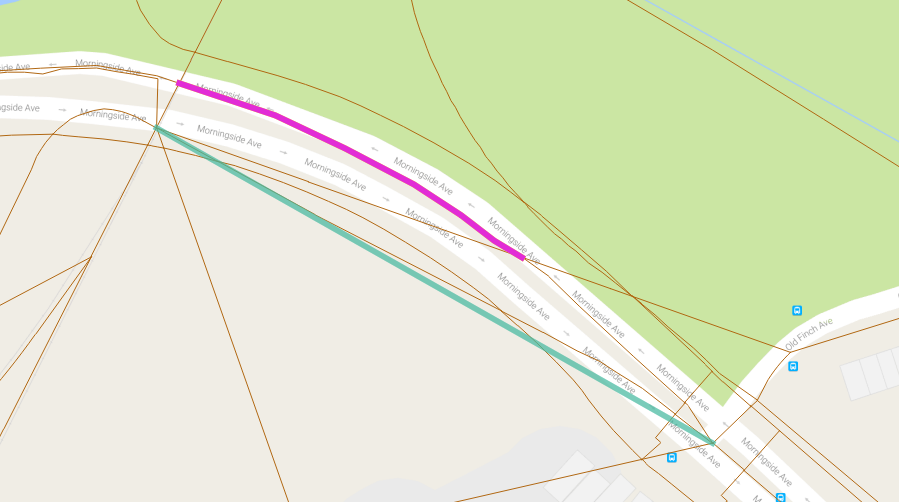
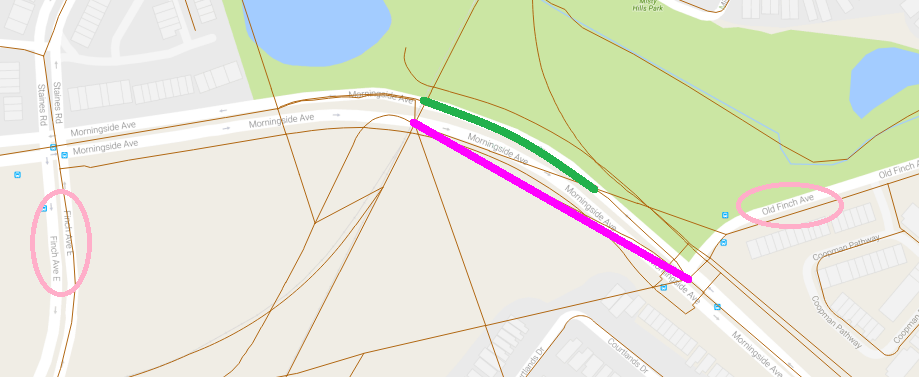
Update documentation on QC

diff --git a/Matching arterycodes to TCL/Issues log.md b/Matching arterycodes to TCL/Issues log.md
@@ -1,0 +1,104 @@
+Special cases and observations during the quality control on arterycode matching are noted below.  
+**Color scheme:**    
+Magenta: arterycode geometry  
+Red: corrected geometry  
+Green: centreline geometry matched by algorithm  
+
+# Special cases and resolution:
+Because the sources for volume counts and Toronto centreline files are different, the segments do not agree completely. Cases where discrepancies might occur and the solution the algorithm takes are presented below.
+
+## 1. Centreline Segments being broken up by planning boundaries, trails, etc.
+arterycode|sideofint|direction|description|comment|
+-----|-|----------|-------------------------------------------|----------------------------
+27562/21091|S|Southbound/Northbound|SCARSDALE RD N/B(S/B) S OF YORK MILLS RD|segment broken by Leaside Rail Spur Trail and bottom segment do not pass directional alignment check
+3564/1601|E/W|Westbound/Eastbound|STEELES AVE W/B E OF FOUNDERS RD/STEELES AVE E/B W OF KEELE ST|both matched to the longer segment 
+!['27562+21091'](img/27562+21091.png)
+!['3564+1601'](img/3564+1601.png)
+
+Resolution: Depending on the case that the arterycode is matched on. The arterycode might be mapped to the centreline segment that shares a node with the arterycode geometry and has a longer length, or the centreline segment that is closer to the segment by Hausdorff Distance. While checking, the rule of thumb used is that if the centreline segments that make up the arterycode geometry is broken up by planning boundary, trails, geostatistical lines, i.e. no vehicular flow will be diverted/merged in and volume stays constant across, the match will be considered correct.
+
+# Error Sources:
+There are a few representative situations that the algorithm do not handle well. Instances caught by quality control are corrected and labelled case 10. This is the base for further improvements to the matching algorithm.
+
+## 1. Crescents (segments share the same nodes in general)
+arterycode|sideofint|direction|description|comment|
+-----|-|----------|-------------------------------------------|----------------------------
+20665|E|Northbound|VANLEY CRES N/B E OF CHESSWOOD DR|Chesswood Dr and Vanley Cres have the same fnode and tnode
+28799/28800|E|Westbound/Eastbound|LAWRENCE NE SERVICE RD W/B E OF LAWRENCE AV|The north service road have the same fnode and tnode as the main road
+
+!['20665'](img/20665.png)
+!['28799+28800'](img/28799+28800.png)
+
+## 2. Geometry does not exist in tcl
+arterycode|sideofint|direction|description|comment
+-----|-|----------|-------------------------------------------|-----
+11502/11503|N|Northbound/Southbound|LN E OF GILBERT AVE N/B N OF NORMAM AVE|laneway
+
+!['11502+11503'](img/11502+11503.png)
+
+Resolution: centreline_id is marked null
+
+## 3. Curving and separated segments
+arterycode|sideofint|direction|description|comment|
+-----|-|----------|-------------------------------------------|----------------------------
+28179/28180|N|Southbound/Northbound|FORT YORK BLVD S/B(N/B) OF FLEET ST|Segments are curved and separated therefore directional match does not align.
+
+!['28179+28180'](img/28179+28180.png)
+
+## 4. Geometry lies outside of Toronto centreline boundary
+arterycode|sideofint|direction|description|comment|
+-----|-|----------|-------------------------------------------|----------------------------
+22873|W|Eastbound|THE QUEENSWAY E/B W OF ETOBICOKE CREEK|
+
+!['22873'](img/22873.png)
+
+Resolution: centreline_id is marked null
+
+## 5. Ambiguous Direction + Incomplete Geometry
+arterycode|sideofint|direction|description|comment|
+-----|-|----------|-------------------------------------------|----------------------------
+37583/37584|S|Northbound/Southbound|KIDBROOKE CRES N/B(S/B) S OF GIDLEY RD|only one point available for this arterycode. while overall Kidbrooke Cres is south of Gidley Rd, directly south of Gidley Rd Kidbrooke Cres goes east
+
+!['37583+37584'](img/37583+37584.png)
+
+## 6. Highway Ramps + Incomplete/Inaccurate/Segmented Geometry
+arterycode|sideofint|direction|description|comment|
+-----|-|----------|-------------------------------------------|----------------------------
+1247|S|Northbound|ISLINGTON AVE N/B TO HIGHWAY 401 E/B|there are a lot of segments near the ramp. without accurate start/end point information, the algorithm performs by luck. in this case, the segment is matched to ISLINGTON S/B TO 401 E/B RAMP.
+
+!['1247'](img/1247.png)
+
+
+# Observations:
+During the process, several types of inconsistencies/errors with original data are discovered and presented below. In every case, description takes higher priority than geometry. Corrections are made based on description of count locations.
+
+## 1. Description does not match with geometry
+arterycode|sideofint|direction|description|comment|
+-----|-|----------|-------------------------------------------|----------------------------
+3510|W|Eastbound|RESOURCES RD E/B TO ISLINGTON AVE S/B|purple segment is the arterycode geometry, which lies on Islington Ave. The description points to Resources Rd.
+3526|S|Northbound|VICTORIA PARK AVE N/B TO HIGHWAY 401 W/B|arterycode geometry represents volume going to 401 W/B and through
+!['3510'](img/3510.png)
+!['3526'](img/3526.png)
+
+## 2. Wrong Description
+arterycode|sideofint|direction|description|issue|
+-----|-|----------|-------------------------------------------|----------------------------
+23118|N|Southbound|FINCH AVE S/B N OF OLD FINCH AVE|Finch Ave is not connected with Old Finch Ave and geometry lies on Morningside Ave.
+23006/23008|S|Northbound/Southbound|KENNETH AVE N/B(S/B) S OF FINCH AVE|Kenneth Ave continues as Doris Ave South of Finch Ave
+!['23118'](img/23118.png)
+!['23006+23008'](img/23006+23008.png)
+
+## 3. Wrong Geometry
+arterycode|sideofint|direction|description|comment|
+-----|-|----------|-------------------------------------------|----------------------------
+3823|S|Northbound|REMEMBRANCE DR N/B S OF LAKE SHORE BLVD( ONT PLACE EXISTS )|arterycode geometry is not close to anything described.
+
+!['3823'](img/3823.png)
+
+## 4. Arterycode runs over intersections
+
+arterycode|sideofint|direction|description|comment|
+-----|-|----------|-------------------------------------------|----------------------------
+34510|N|Southbound|MARKHAM RD S/B N OF PASSMORE AVE|arterycode covers the intersection of Select Ave and Markham Rd which could cause volume difference between the two stretches of the segment.
+
+!['34510'](img/34510.png)

diff --git a/Matching arterycodes to TCL/README.md b/Matching arterycodes to TCL/README.md
@@ -27,7 +27,7 @@ to_intersection_id|bigint|intersection id at to node|
 ### Step 1:   
 De-couple the linkid field in **Table arterydata** and match with *from_intersection_id* and *to_intersection_id* from **Table centreline**    
 Script:**create-table-arteries.sql**   
-Result: **Table aharpal.arteries**   
+Result: **Table prj_volume.arteries**   
 
 ### Step 2:   
 Geocode case 3&5 according to location names in **match.py**  
@@ -42,7 +42,7 @@ Line segments are matched to point locations. There are 34 others that are match
 ### Step 3:   
 Make POSTGIS geometry objects based on (updated) coordinates: **update-table-arteries.sql**
 
-**Table aharpal.arteries**
+**Table prj_volume.arteries**
 
 Field Name|Type|Description
 ----------|----|-----------
@@ -77,34 +77,37 @@ direction|text|from arterydata (field apprdir)
 sideofint|text|from arterydata
 centreline_id|bigint|from centreline
 
-Step 1: Geocode/String matching for features with no geometry information **(match.py)**
+Step 1: Geocode/String matching for features with no geometry information **(match.py)** *case 5*
 1. extract street names and number(if exists) match centreline segments based on street number and name
 2. for laneways: fuzzy string match names
 3. Geocode line segments and point locations that have no geometry information and are not matched in 1&2
 	
 Step 2: Node/Spatial match for segments with complete geometry **(match-segment-arterycodes.sql)**
-1. match fnode,tnode of arterycode and centreline segment
-2. calculating Hausdorff distance<sup>1</sup> between artercode segment and centreline segment and match to the closest one
+1. match fnode,tnode of arterycode and centreline segment *case 1*
+2. match (fnode or tnode) and direction, take the longest qualifying segment *case 2*
+3. calculating Hausdorff distance<sup>1</sup> between artercode segment and centreline segment and match to the closest one *case 12*
 
 Step 3: spatial+direction match for segments with only one node **(match-segments-w-missing-point.sql)**
-1. Find closest line to the point and check segment direction and side of street and assign centreline_id
+1. if the point coincides with a centreline node, find the correct segment attached to the node based on direction *case 3*
+2. find closest line to the point and check segment direction and side of street and assign centreline_id *case 4*
 		
 Step 4: Node+Spatial match for turning movement count locations **(artery-tmc.sql)**
 1. match fnode/tnode with centreline
 2. for unmatched nodes, create a buffer around the point(intersection) and find the intersecting centreline segment and assign direction to them
 	
-Case|Actual Geometry Type|Geometry type in database|Method|Script|Matched|Failed
-----|--------------------|-------------------------------|------|------|-----|-------
-1|Line|Line|Match fnode,tnode|**match-segment-arterycodes.sql**|17842|pass on to 2
-2|Line|Line|Calculating Hausdorff distance|**match-segment-arterycodes.sql**|2418|0
-3|Line|Point|Match to centreline intersection and check azimuth/approach|**match-segments-w-missing-point.sql**|298|pass on to 4
-4|Line|Point|Find closest line and check segment direction|**match-segments-w-missing-point.sql**|96|19
-5|Line|Null|Match street name and number|**match.py**|48|N/A
-6|Point(intersection)|Point|Match fnode_id or tnode_id on centreline segments|**match-tmc-arterycodes.sql**|4688|N/A
-7|Point(intersection)|Point|Snap to the closest intersection within 30m in centreline|**match-tmc-arterycodes.sql**|129|N/A
-8|Point(not intersection)|Point|Create 15m buffer around point and create records for all possible combinations of side and direction|**match-tmc-arterycodes.sql**|100|25
-9|Point/Line|Null|Fail to have geometry||0|23 (5lines+18points)
+Case|Actual Geometry Type|Geometry type in database|Method|Script|Number
+----|--------------------|-------------------------------|------|------|
+1|Line|Line|Match fnode,tnode|**match-segment-arterycodes.sql**|17842|
+2|Line|Line|Match (fnode *OR* tnode) *AND* direction, choose the longest qualifying segment|**match-segment-arterycodes.sql**|1968|
+3|Line|Point|Match to centreline intersection and check azimuth/approach|**match-segments-w-missing-point.sql**|296|
+4|Line|Point|Find closest line and check segment direction|**match-segments-w-missing-point.sql**|98|
+5|Line|Null|Match street name and number|**match.py**|48|
+6|Point(intersection)|Point|Match fnode_id or tnode_id on centreline segments|**match-tmc-arterycodes.sql**|4691|
+7|Point(intersection)|Point|Snap to the closest intersection within 30m in centreline|**match-tmc-arterycodes.sql**|129|
+8|Point(not intersection)|Point|Create 15m buffer around point and create records for all possible combinations of side and direction|**match-tmc-arterycodes.sql**|97|
+9|Point/Line|Null|Fail to have geometry/match||
 10|||Manual Correction
 11|||Don't Care/ Doesn't exist in tcl
+12|Line|Line|[taking records failed to match from case 2] Calculating Hausdorff distance|**match-segment-arterycodes.sql**|442|
  
 1. Definition of Hausdorff distance: maximum distance of a set to the nearest point in the other set.
